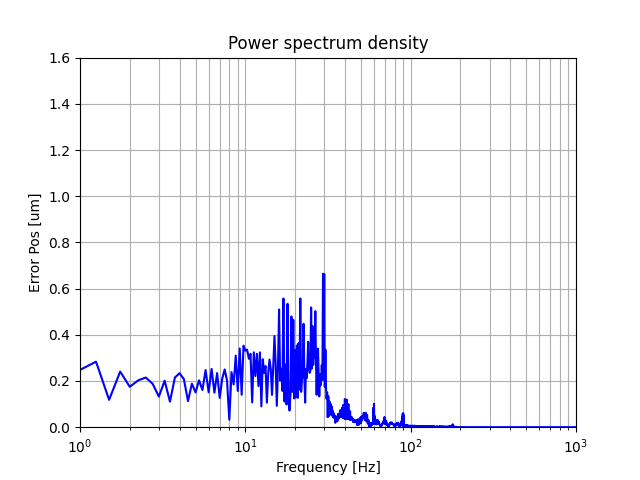
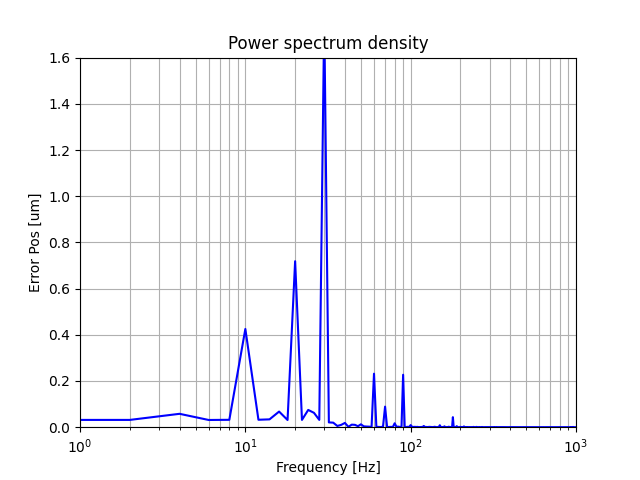
v-0.1.9

Changed region(s): [[0.125, 0.125, 0.6562, 0.9062], [0.6875, 0.875, 0.7188, 0.9062], [0.125, 0.75, 0.1562, 0.7812]]

diff --git a/example/Run_step_exp.py b/example/Run_step_exp.py
@@ -64,7 +64,7 @@ RefPosUm = measdata.value[meas.getdataindex(measdata, 'RefPosUm[0]')]
 ErrPosUm = measdata.value[meas.getdataindex(measdata, 'ErrPosUm[0]')]
 ServoOutN = measdata.value[meas.getdataindex(measdata, 'ServoOutN[0]')]
 # FFT
-freq_fft, ErrPosUm_fft = fft.fft(ErrPosUm[4000:36000], Ts)
+freq_fft, ErrPosUm_fft = fft.fft(ErrPosUm[4000:8000], Ts)
 
 print('Frequency response analysis is running...')
 # Measurement
